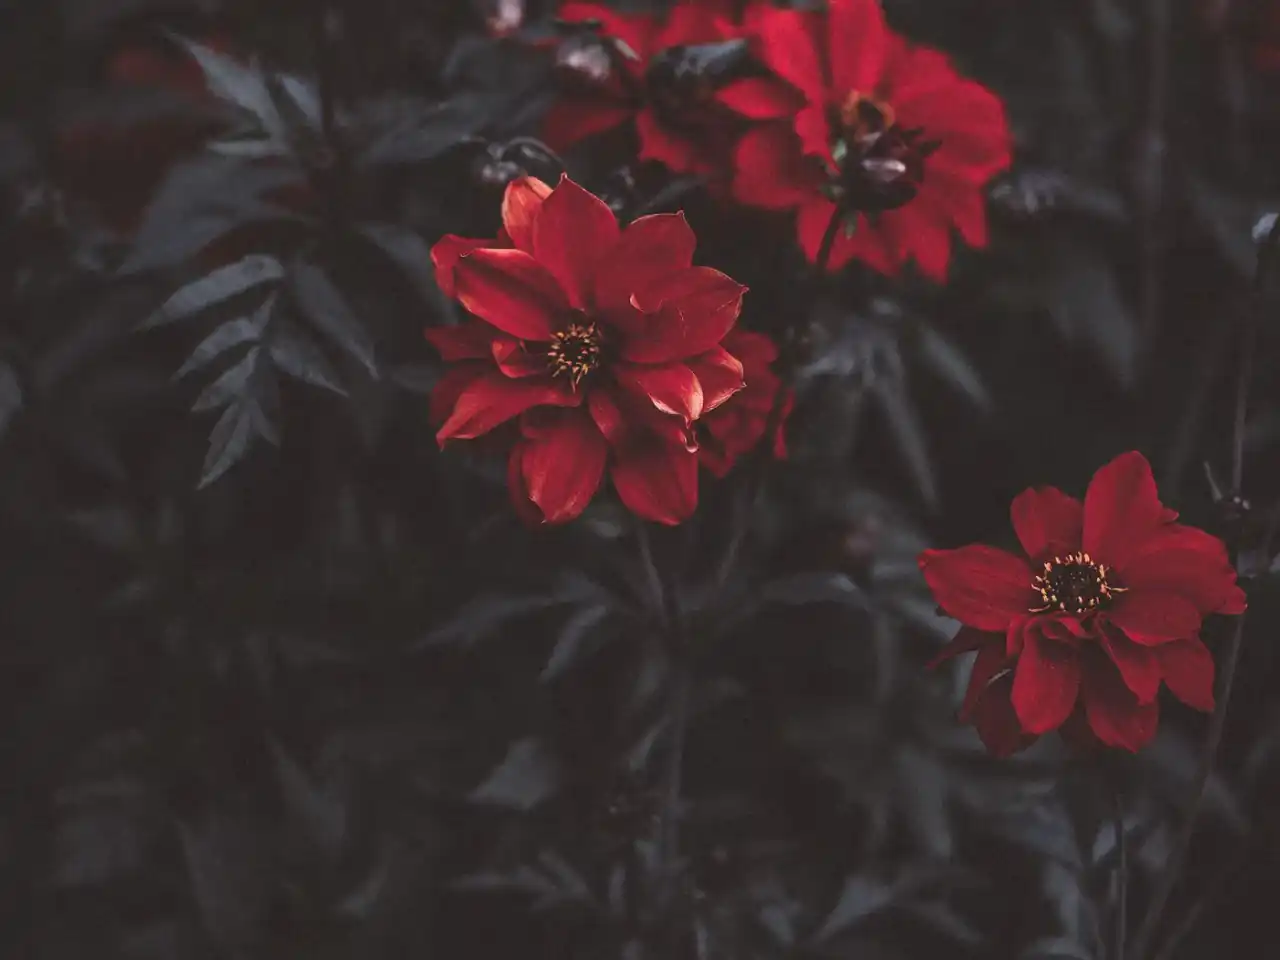
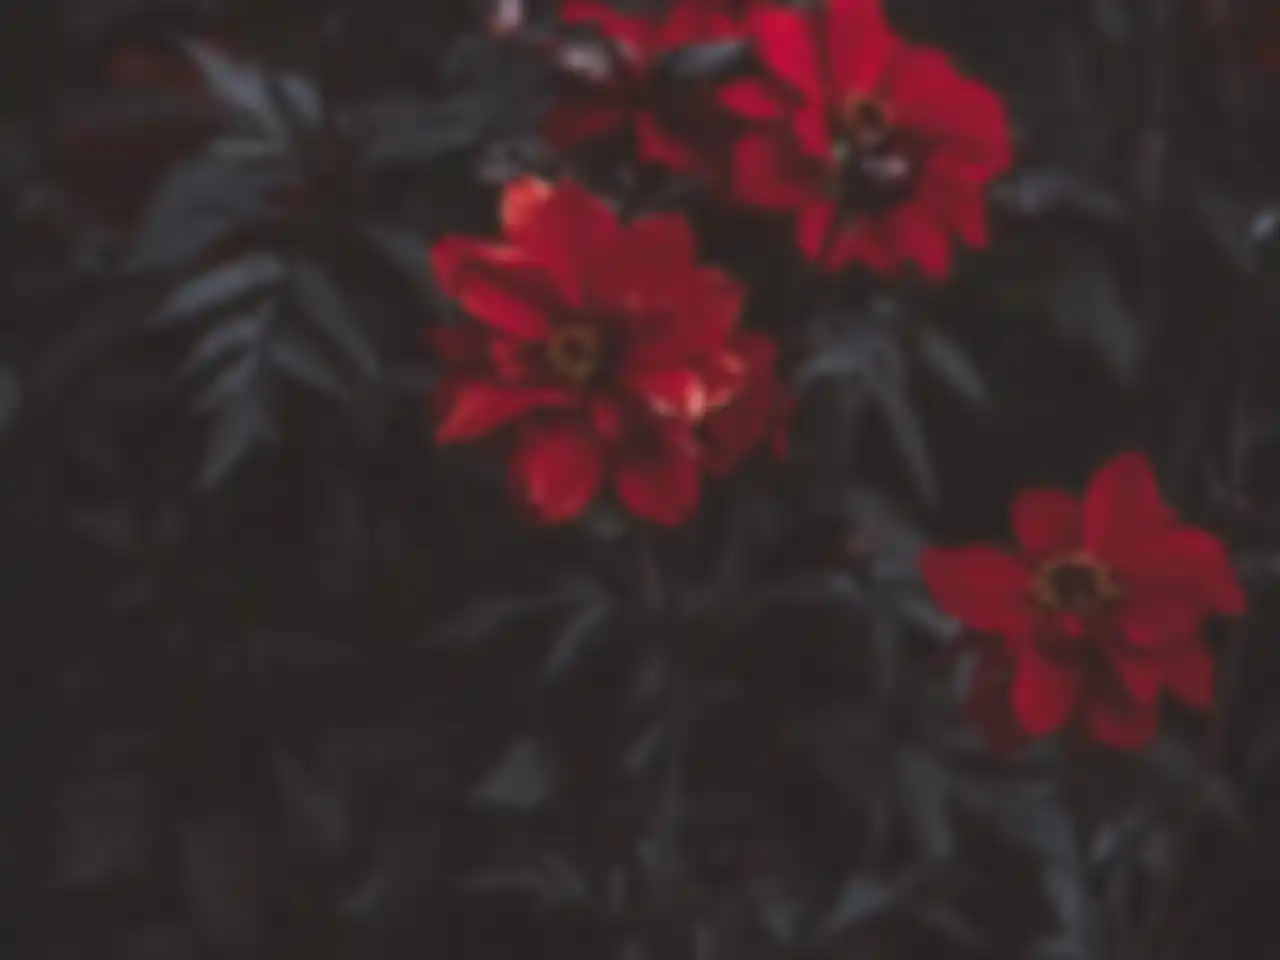
perf: bake blur+brightness baked in, remove runtime filter, keep y8 reveal

diff --git a/src/components/wallpaper.tsx b/src/components/wallpaper.tsx
@@ -129,7 +129,6 @@ export function Wallpaper() {
                 style={{
                   objectFit: "cover",
                   objectPosition: "center",
-                  filter: "blur(6px) brightness(0.92) saturate(1.02)",
                 }}
               />
             </motion.div>
